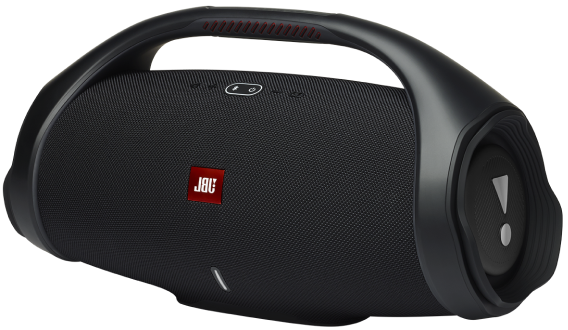
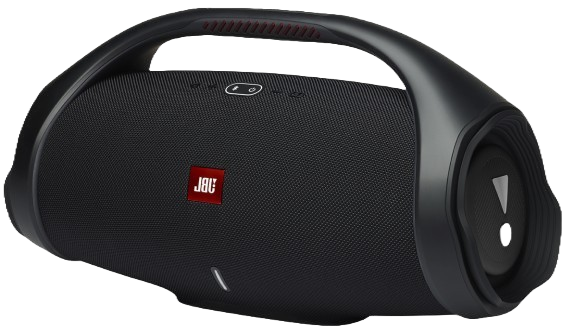
adding jbl section

diff --git a/frontend/src/components/JBLSection.jsx b/frontend/src/components/JBLSection.jsx
@@ -1,0 +1,34 @@
+import React from "react";
+import jbl from "../../public/images/jbl.png";
+
+const JBLSection = () => {
+  return (
+    <div className="h-[31.25rem] my-20">
+      <div className="h-[31.25rem] flex flex-col md:flex-row  px-8 md:px-0 md:justify-evenly items-center relative gap-5 w-full bg-black">
+        <div className="flex flex-col justify-center items-start h-full gap-5">
+          <p className="text-[#00FF66] text-sm md:text-lg">Categories</p>
+          <h1 className="text-white text-2xl md:text-[3rem] max-w-[27.688rem] [lineHeight:3.75rem] font-semibold">
+            Enhance Your Music Experience
+          </h1>
+          <p className="text-white text-sm md:text-lg">
+            Get the best deals on JBL Speakers
+          </p>
+          <button className="text-[#FAFAFA] h-[3.5rem] w-[10.688rem] rounded-[4px] bg-[#00FF66] px-4 py-2 mt-4">
+            Shop Now
+          </button>
+        </div>
+        <div className=" jbl-img justify-center hidden md:flex items-center">
+          <img
+            src={jbl}
+            alt="JBL Speakers"
+            className=" h-[20.625rem] w-[35.5rem] object-contain"
+            width={200}
+            height={200}
+          />
+        </div>
+      </div>
+    </div>
+  );
+};
+
+export default JBLSection;

diff --git a/frontend/src/components/Home.jsx b/frontend/src/components/Home.jsx
@@ -1,8 +1,8 @@
 import React, { lazy, Suspense } from "react";
 import TodayDes from "./TodayDes";
 import HeroSection from "./HeroSection";
+import JBLSection from "./JBLSection";
 const CategoriesSection = lazy(() => import("./CategoriesSection"));
-
 
 const Home = () => {
   return (
@@ -12,11 +12,8 @@ const Home = () => {
       <Suspense fallback={<div>Loading...</div>}>
         <CategoriesSection />
       </Suspense>
-      <div className="grid grid-cols-1 md:grid-cols-2 lg:grid-cols-3 gap-4">
-        <div className="bg-primary p-4 rounded-lg">1</div>
-        <div className="bg-primary p-4 rounded-lg">2</div>
-        <div className="bg-primary p-4 rounded-lg">3</div>
-      </div>
+
+      <JBLSection />
     </div>
   );
 };

diff --git a/frontend/src/components/CategoriesSection.jsx b/frontend/src/components/CategoriesSection.jsx
@@ -29,7 +29,7 @@ const CategoriesSection = () => {
             Browse By Category
           </h2>
         </div>
-        <div className="flex justify-center md:justify-start gap-x-5 items-center flex-wrap">
+        <div className="flex justify-center md:justify-start gap-5 items-center flex-wrap">
           {categories?.map((category) => (
             <Link to={`/category/${category.id}`} key={category.id} className="w-fit">
               <div className="rounded-lg text-center transition-all duration-300 ease-in hover:bg-secondary w-[11rem] h-[9rem] p-[1rem] hover:text-white shadow-lg  border-[1px] border-solid border-secondary">

diff --git a/frontend/src/index.css b/frontend/src/index.css
@@ -61,3 +61,6 @@ a {
   }
 }
 
+.jbl-img{
+  filter: drop-shadow(0 3px 104px rgb(136, 136, 136));
+}
